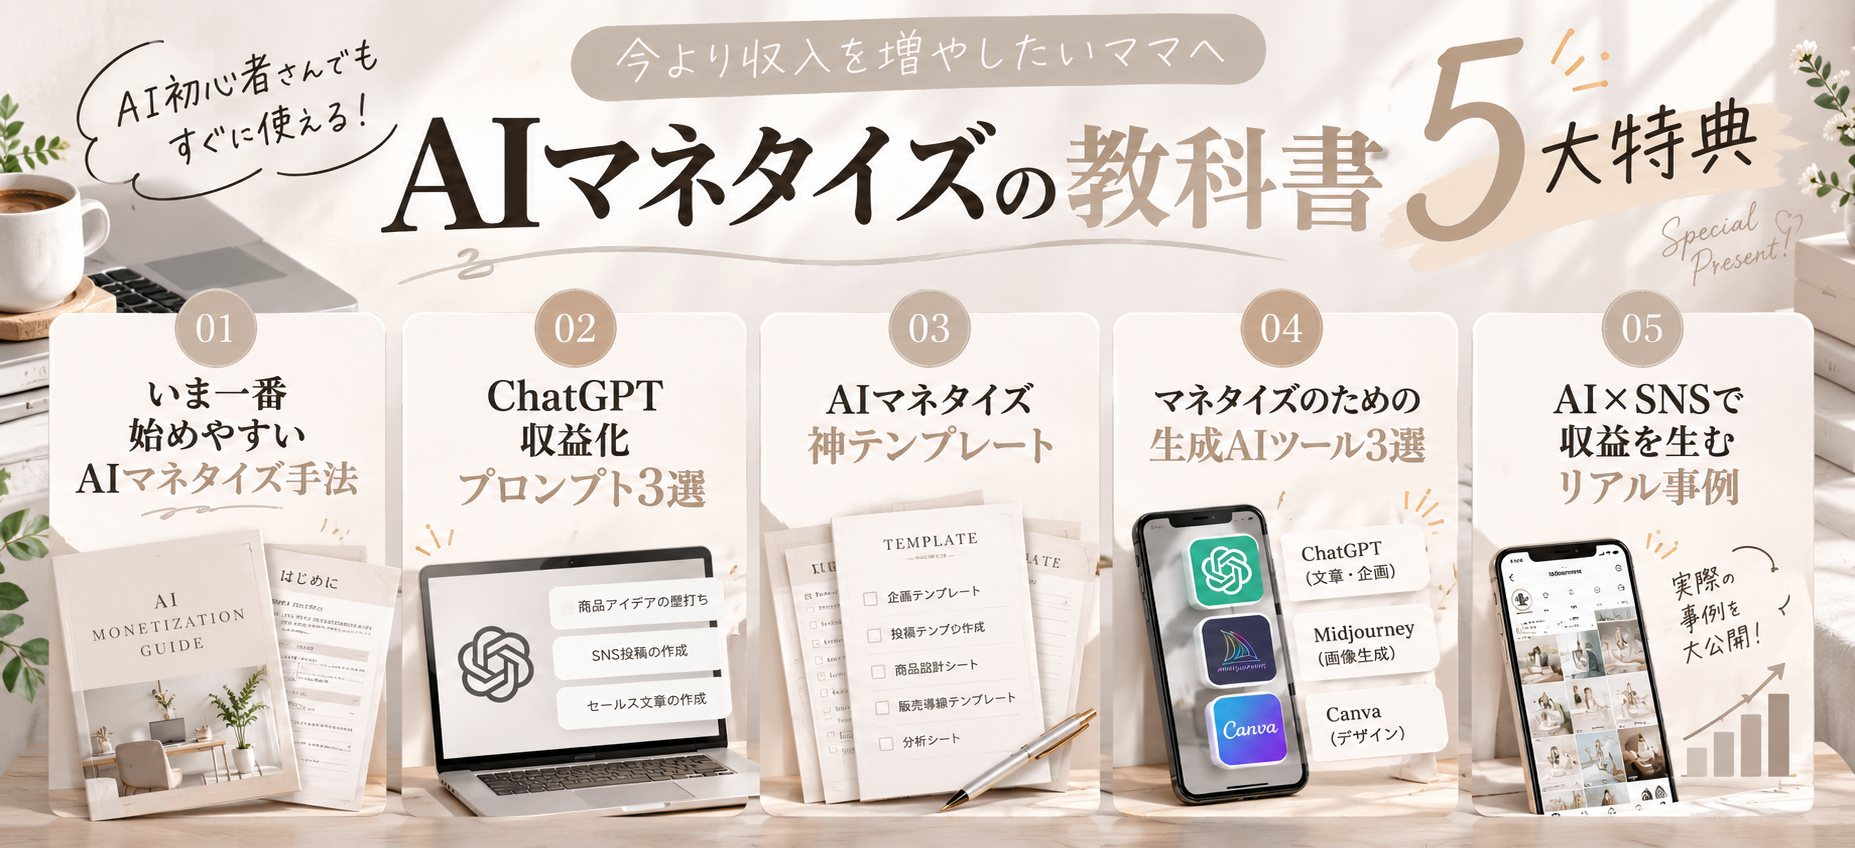
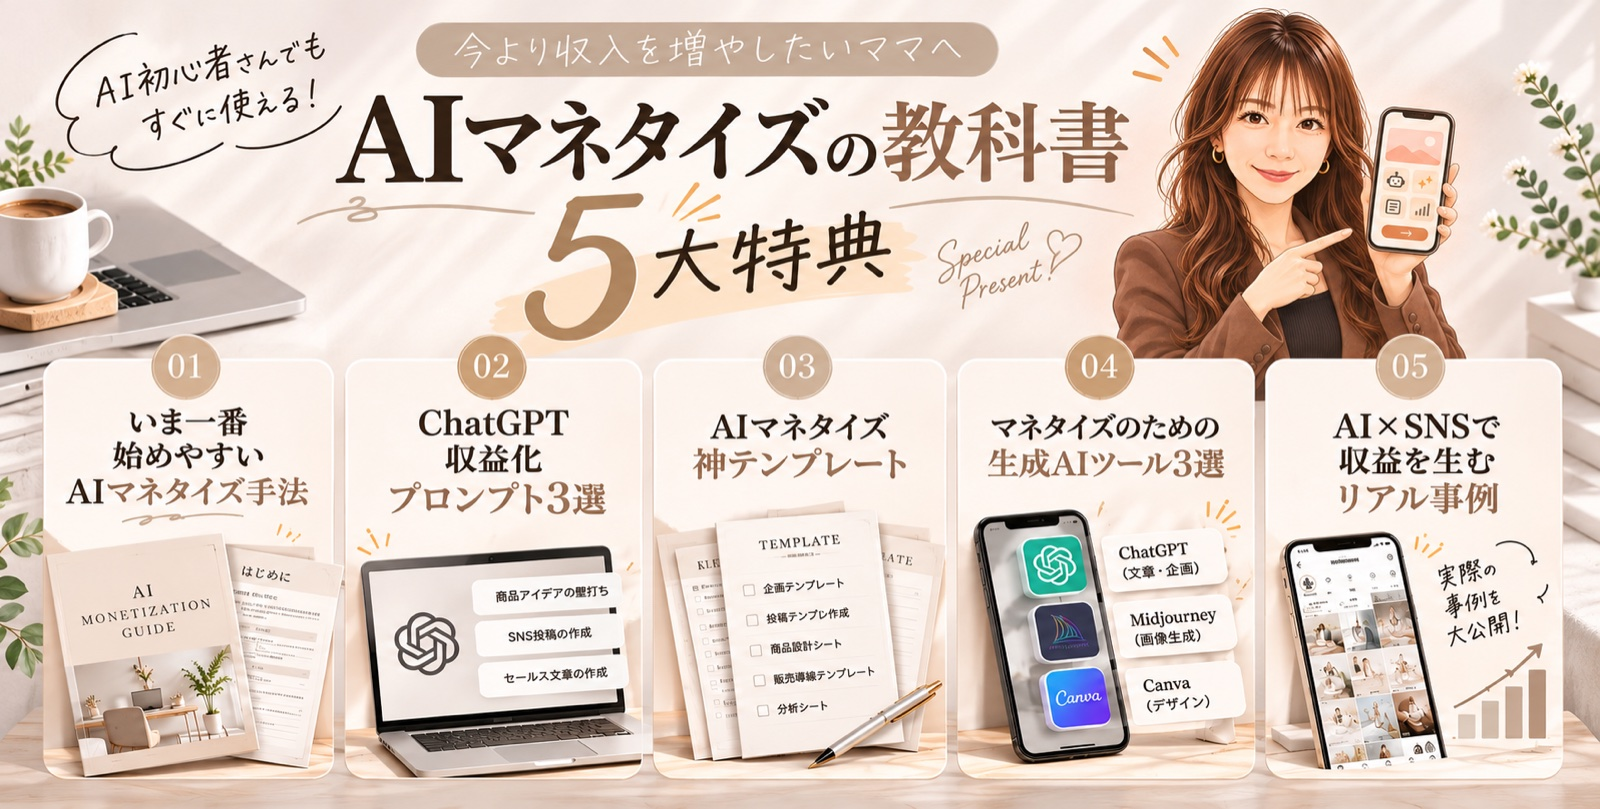
🕒 2026-11-17 18:43:09
LINE誘導をストーリー型に変更・バナーと5大特典画像を差し替え

diff --git a/js/line-cta.js b/js/line-cta.js
@@ -1,23 +1,29 @@
 /* LINE誘導の共通文章（全特典で共通。特典ごとに書き換えない）。
-   変更したいときはここ1か所だけを直す。特典ごとに変えるのは js/content.js の `lineIntro` だけ。
-   構成: ①つなぎ（content.js の lineIntro）→ ②体験談 → ③選択肢 → ④教科書のメリット → ⑤CTA */
+   変更したいときはここ1か所だけを直す。特典ごとに変えるのは js/content.js の `lineIntro`（直前のノウハウからのつなぎ）だけ。
+   構成: ①つなぎ（content.js の lineIntro）→ ②〜④ みおんのストーリー → ⑤教科書の紹介 → ⑥LINE登録ボタン → ⑦サポート会の案内
+   ストーリー本文は確定済み。原則そのまま使う（実績・体験の追加や変更をしない／「副業ジプシー」「40代」など読者の年齢を限定する言葉は使わない）。 */
 const LINE_CTA = {
-  // ② みおん自身の実体験（固定。毎回別のエピソードを作らない）
-  story: [
-    "実は私も、かつては副業ジプシーでした。",
-    "いろんな副業に挑戦して、学ぶためにお金も時間も使ってきましたが、なかなか思うような結果が出ませんでした。",
-    "いろんな副業を経験してきたからこそ思うのは、収入の作り方は本当にたくさんある、ということ。",
-    "だから、自分に合う方法を見つけることが大事だと思っています。",
-  ],
-
-  // ③ AIで広がる選択肢（固定。①と重ならないよう「今回紹介した方法も〜」は入れない）
-  options: {
-    lead: "AIを使えば、商品を作ることも、SNSを活用することも、仕事の幅を広げることもできます。",
-    questions: ["「ほかにはどんな方法があるの？」", "「自分には何が向いているんだろう？」"],
-    closing: "そんな人にこそ、知ってほしいことがあります。",
+  // ②〜④ みおん自身のストーリー（固定）。"<br>" は改行
+  story: {
+    heading: "ここで少し、私自身の話をさせてください。",
+    paras: [
+      "実は私も、これまでたくさんの副業に挑戦してきました。",
+      "学ぶために自己投資してきた金額は、累計約1,000万円。",
+      "でも、最初からうまくいったわけではありません。",
+      "なかなか思うような結果が出ず、たくさん遠回りもしてきました。",
+      "それでも挑戦を続けて、専業主婦だった私も月100万円を達成することができました。",
+      "私が伝えたいのは、AIの使い方だけじゃありません。",
+      "行きたい場所に行く。<br>欲しいものを買う。<br>やりたい仕事を選ぶ。<br>そして、休みたいときには休む。",
+      "お金や時間を理由に、自分のやりたいことを諦めてほしくないんです。",
+      "家族のことも大切。でも、自分の人生だって同じくらい大切。",
+      "だからこそ、自分で収入を作る力を身につけて、もっと自由に、自分の人生を楽しんでほしい。",
+      "そんな思いで発信しています。",
+      "もし今、<br>「何から始めたらいいか分からない」<br>「いろいろ挑戦したけれど、結果が出ない」<br>と感じているなら、まずは自分に合った方法を知ることから始めてみてください。",
+      "そのためのヒントを「AIマネタイズの教科書」にまとめています。",
+    ],
   },
 
-  // ④ LINE登録のメリット（実際の教科書の内容だけを書く）
+  // ⑤ LINE登録のメリット（実際の教科書の内容だけを書く）
   textbook: {
     heading: "LINEで『AIマネタイズの教科書』を<br>無料でプレゼント",
     lead: "自分に合う方法を探すための材料を、ひとつにまとめています。",
@@ -30,12 +36,12 @@ const LINE_CTA = {
     ],
   },
 
-  // ⑤ CTA（リンク先は content.js の lineUrl）
+  // ⑥ CTA（リンク先は content.js の lineUrl）
   buttonText: "無料でAIマネタイズの教科書を受け取る →",
   caution: "収入や収益が得られることを保証するものではありません。",
-  banner: "assets/images/cta-banner.jpg",
+  banner: "assets/images/cta-banner.jpg?v=2",
   bannerAlt: "無料プレゼント AIマネタイズ教科書。AIで働き方の選択肢を広げたい方へ。LINE登録はこちら",
-  // メインCTAはLINE登録に統一。サポート会は教科書の案内のあとに補足として添える
+  // ⑦ メインCTAはLINE登録に統一。サポート会は教科書の案内のあとに補足として添える
   support:
     "「何から始めたらいいのかわからない」「自分には何が向いているのか相談したい」という方に向けて、<strong>AI収益化サポート会</strong>も実施中です。個別でのご相談も、LINEから受け付けています。",
 };

diff --git a/js/script.js b/js/script.js
@@ -48,7 +48,7 @@
 
   function topCta(c, url) {
     const image = c.image
-      ? `<a class="cta-soft__image" href="${esc(url)}" target="_blank" rel="noopener"><img src="${esc(c.image.src)}" alt="${esc(c.image.alt)}" width="1855" height="848"></a>`
+      ? `<a class="cta-soft__image" href="${esc(url)}" target="_blank" rel="noopener"><img src="${esc(c.image.src)}" alt="${esc(c.image.alt)}" width="1600" height="809"></a>`
       : "";
     return `
     <section class="container" aria-labelledby="top-cta-title">
@@ -148,8 +148,7 @@
 
   // LINE誘導: ①つなぎ(content.js) → ②体験談 → ③選択肢 → ④教科書のメリット → ⑤CTA（②〜⑤は line-cta.js）
   function finalCta(intro, l, url) {
-    const paras = (arr) => arr.map((t) => `<p>${t}</p>`).join("");
-    const questions = l.options.questions.map((q) => `<li>${q}</li>`).join("");
+    const paras = l.story.paras.map((t) => `<p>${t}</p>`).join("");
     const items = l.textbook.items
       .map((it) => `<li class="line-guide__item"><strong>${it.name}</strong><span>${it.benefit}</span></li>`)
       .join("");
@@ -158,12 +157,8 @@
       <div class="container">
         <div class="line-guide">
           <p class="line-guide__intro">${intro}</p>
-          <div class="line-guide__story">${paras(l.story)}</div>
-          <div class="line-guide__options">
-            <p>${l.options.lead}</p>
-            <ul class="line-guide__questions">${questions}</ul>
-            <p>${l.options.closing}</p>
-          </div>
+          <h3 class="line-guide__title">${l.story.heading}</h3>
+          <div class="line-guide__story">${paras}</div>
         </div>
         <div class="cta-final">
           <h2 class="cta-final__title" id="final-cta-title">${l.textbook.heading}</h2>

diff --git a/css/style.css b/css/style.css
@@ -135,13 +135,12 @@ a:focus-visible, button:focus-visible {
 }
 .cta-final p { margin-bottom: 24px; text-align: left; }
 
-/* ---------- LINE誘導（つなぎ→体験談→選択肢。本編より目立たせない） ---------- */
+/* ---------- LINE誘導（つなぎ→ストーリー→教科書。本編より目立たせない） ---------- */
 .line-guide { margin-bottom: 32px; }
 .line-guide p { margin: 0 0 14px; }
 .line-guide__intro { font-family: var(--font-serif); font-size: 17px; line-height: 1.85; color: var(--c-ink); }
-.line-guide__story { margin: 24px 0; padding-left: 16px; border-left: 3px solid var(--c-greige); }
-.line-guide__questions { list-style: none; margin: 0 0 14px; padding: 0; }
-.line-guide__questions li { margin: 0 0 6px; padding: 10px 14px; background: var(--c-point); border-radius: var(--radius-s); }
+.line-guide__title { margin: 28px 0 16px; font-family: var(--font-serif); font-size: 19px; line-height: 1.6; color: var(--c-ink); }
+.line-guide__story { margin: 0 0 24px; padding-left: 16px; border-left: 3px solid var(--c-greige); }
 .line-guide__items { list-style: none; margin: 0 0 24px; padding: 0; text-align: left; }
 .line-guide__item { padding: 10px 0; border-bottom: 1px solid var(--c-line); }
 .line-guide__item:last-child { border-bottom: 0; }

diff --git a/js/content.js b/js/content.js
@@ -55,7 +55,7 @@ const CONTENT = {
     text: "AIを使って、自分の働き方の選択肢を広げたい方に、無料で学べる情報をお届けしています。",
     buttonText: "無料で受け取る →",
     image: {
-      src: "assets/images/textbook-benefits.jpg",
+      src: "assets/images/textbook-benefits.jpg?v=2",
       alt: "AIマネタイズの教科書 5大特典。1 いま一番始めやすいAIマネタイズ手法、2 ChatGPT収益化プロンプト3選、3 AIマネタイズ神テンプレート、4 マネタイズのための生成AIツール3選、5 AI×SNSで収益を生むリアル事例",
     },
   },
@@ -218,7 +218,7 @@ const CONTENT = {
   },
 
   // SECTION 06：LINE誘導のつなぎ（①）。②〜⑤は js/line-cta.js の共通文章
-  lineIntro: "今回紹介したAIのCM動画づくりは、AIを使って商品の動画を作る方法のひとつ。でも、AIでできることは、これだけではありません。",
+  lineIntro: "今回紹介したAIのCM動画づくりは、AIを使って商品の動画を作る方法のひとつです。",
 
   footer: {
     copyright: "© MION",
